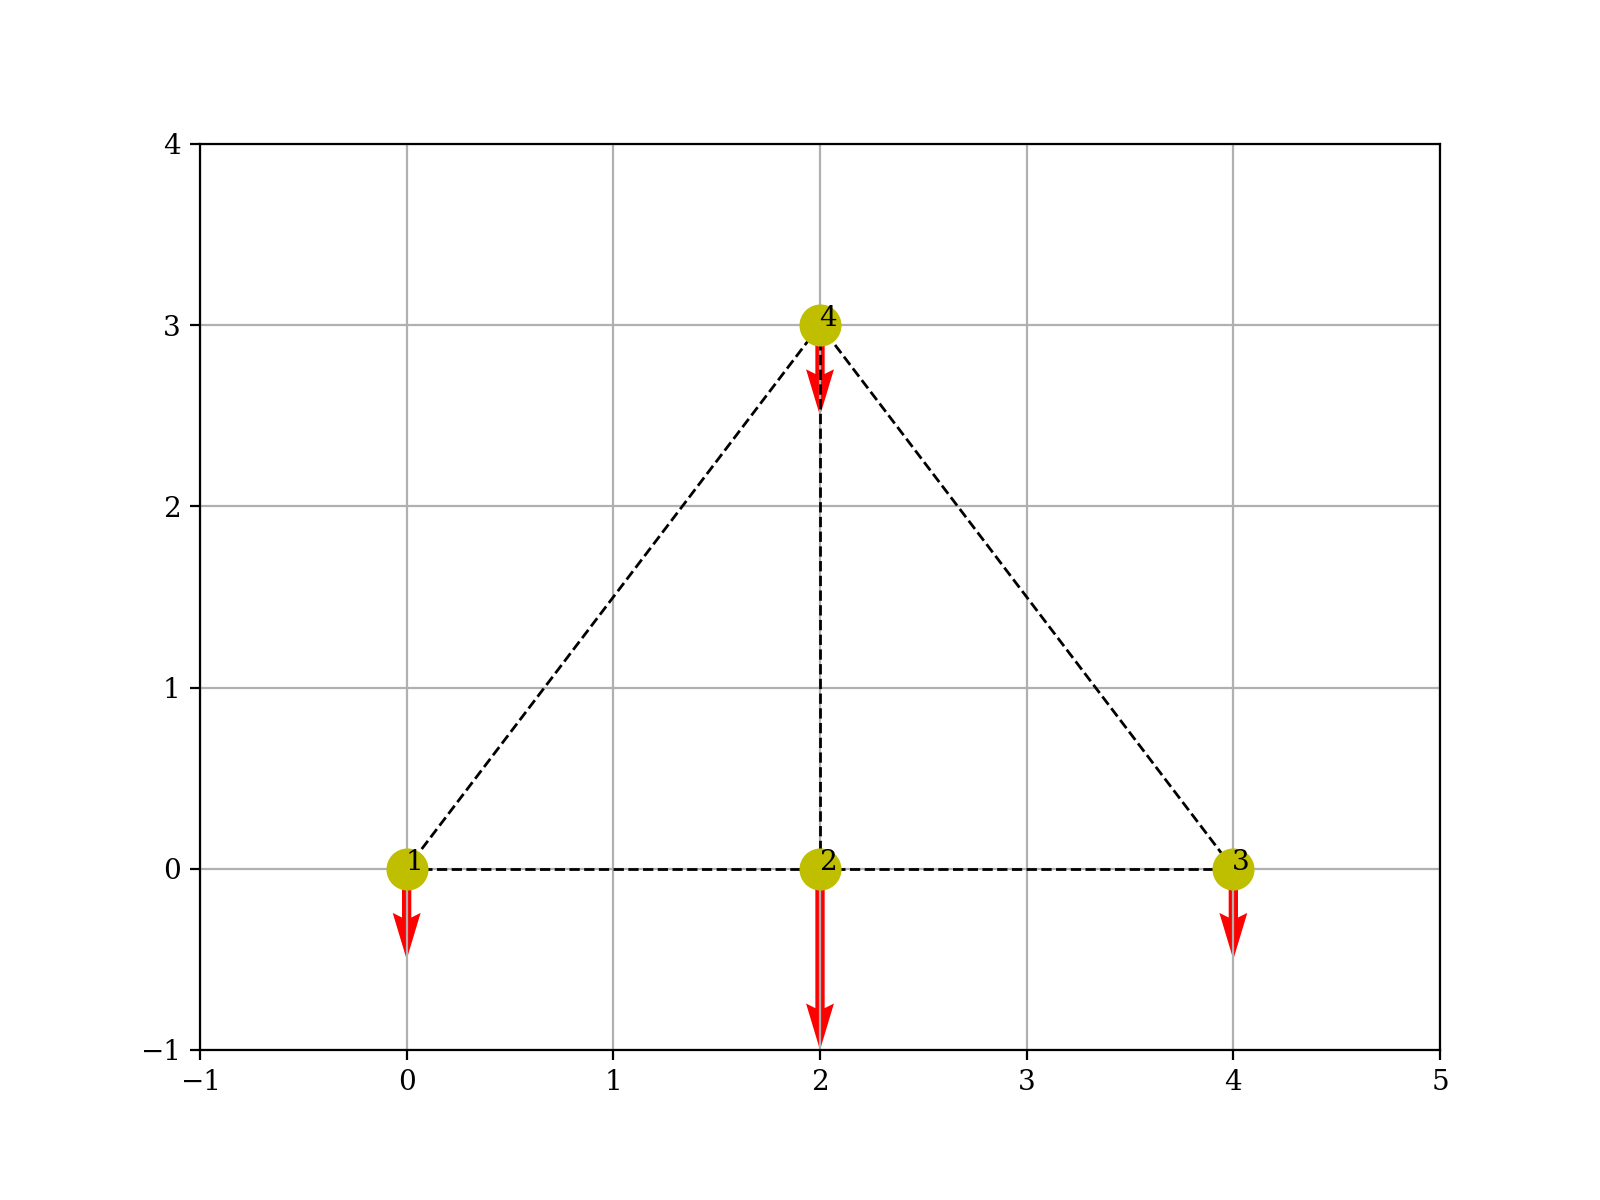
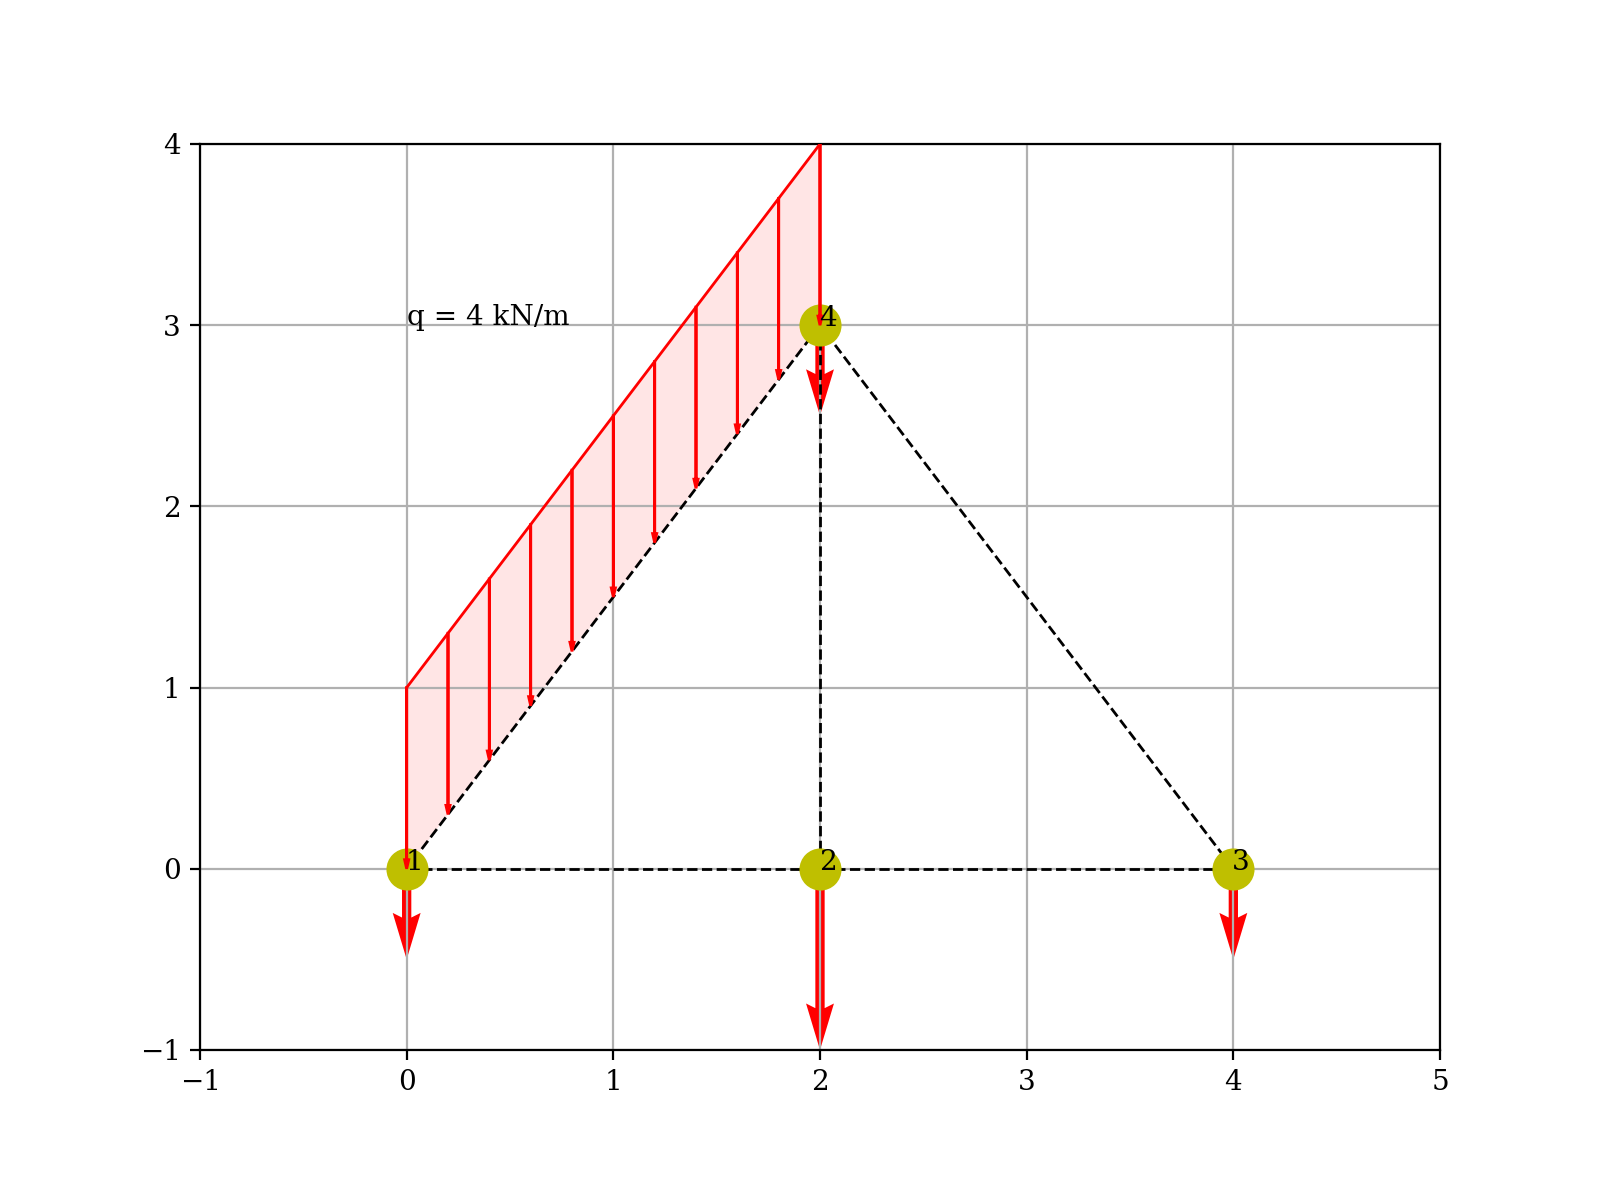
ajout charge 2D et 3D

Changed region(s): [[0.25, 0.1233, 0.5312, 0.7092], [0.25, 0.2467, 0.3438, 0.2775]]

diff --git a/OOP/Code_FEM_v4.py b/OOP/Code_FEM_v4.py
@@ -25,6 +25,22 @@ rcParams["figure.figsize"] = (8,6)
 rcParams['font.family'] = 'serif'
 rcParams['font.size'] = 10
 from mpl_toolkits import mplot3d
+from mpl_toolkits.mplot3d import Axes3D
+from matplotlib.patches import FancyArrowPatch
+from mpl_toolkits.mplot3d import proj3d
+
+class Arrow3D(FancyArrowPatch):
+    def __init__(self, xs, ys, zs, *args, **kwargs):
+        FancyArrowPatch.__init__(self, (0,0), (0,0), *args, **kwargs)
+        self._verts3d = xs, ys, zs
+
+    def draw(self, renderer):
+        xs3d, ys3d, zs3d = self._verts3d
+        xs, ys, zs = proj3d.proj_transform(xs3d, ys3d, zs3d, renderer.M)
+        self.set_positions((xs[0],ys[0]),(xs[1],ys[1]))
+        FancyArrowPatch.draw(self, renderer)
+        
+from matplotlib.patches import Rectangle, Polygon
 #%matplotlib notebook
 from matplotlib.animation import FuncAnimation
 from docxtpl import DocxTemplate, InlineImage
@@ -109,7 +125,7 @@ class Mesh :
                 print(self.element_list)
     
     def del_element(self, element) : 
-        if len(element) != 2 : 
+        if len(element) != self.dim : 
             print("Error : uncorrect element format")
         else :
             found, index = self.check_elem(element)
@@ -144,9 +160,9 @@ class Mesh :
     
     def geom(self, pic = False) : 
         if self.dim == 2 :
-            fig = self.geom2D()
+            fig = self.geom2D(pic)
         else : 
-            fig = self.geom3D()
+            fig = self.geom3D(pic)
         return fig
     
     def geom2D(self, pic = False) : 
@@ -277,28 +293,52 @@ class FEM_Model() :
         print(self.sig)
         
     
-    def K_elem_3d(self,L,E,S,Iy,Iz,G,J) :
-        Ktc = E*S/L
-        KT = G*J/L
-        Kf1 =  12*E*Iy/(L**3)
-        Kf2 =  12*E*Iz/(L**3)
-        Kf3 = 1
-        Kf4 = 1
-        K_elem = np.array([[Ktc, 0, 0, 0, 0, 0, -Ktc, 0, 0, 0, 0, 0],
-                            [0, Kf1 , 0, 0, Kf2, 0, 0],
-                            [0, 0, 0, 0, 0, 0, 0, 0, 0, 0, 0, 0],
-                            [0, 0, 0, 0, 0, 0, 0, 0, 0, 0, 0, 0],
-                            [0, 0, 0, 0, 0, 0, 0, 0, 0, 0, 0, 0],
-                            [0, 0, 0, 0, 0, 0, 0, 0, 0, 0, 0, 0],
-                            [-Ktc, 0, 0 , S, 0, 0],
-                            [0, 0, 0, 0, 0, 0, 0, 0, 0, 0, 0, 0],
-                            [0, 0, 0, 0, 0, 0, 0, 0, 0, 0, 0, 0],
-                            [0, 0, 0, 0, 0, 0, 0, 0, 0, 0, 0, 0],
-                            [0, 0, 0, 0, 0, 0, 0, 0, 0, 0, 0, 0],
-                            [0, 0, 0, 0, 0, 0, 0, 0, 0, 0, 0, 0]])
+    def K_elem_3d(self, L : float , E : float , S : float , Iy : float , Iz : float , G : float , J : float , ay : float = 0, az : float = 0) -> np.array :
+        """ Calcul de la matrice de raideur avec prise en compte de l'énergie cisaillement avec les termes ay et az.
+    
+        :param L: longueur de l'element
+        :type L: float
+        :param E: Module d'Young
+        :type E: float
+        :param S: Section
+        :type S: float
+        :param Iy: Inertie
+        :type Iy: float
+        :param Iz: Inertie
+        :type Iz: float
+        :param G: Module de coulomb
+        :type G: float
+        :param J: Module de torsion
+        :type J: float
+        :param ay:
+        :type ay:
+        :param az:
+        :type az:
+        :return: matrice de raideur en 3D
+        :rtype: np.array
+        """
+        Ktc = E * S / L
+        KT = G * J / L
+        Kf1 = 12 * E * Iz / (L ** 3 * (1 + az))
+        Kf2 = 12 * E * Iy / (L ** 3 * (1 + ay))
+        Kf3 = -6 * E * Iy / (L ** 2 * (1 + ay))
+        Kf4 = 6 * E * Iz / (L ** 2 * (1 + az))
+        Kf5 = (4 + ay) * E * Iy / (L * (1 + ay))
+        Kf6 = (4 + az) * E * Iz / (L * (1 + az))
+        K_elem = np.array([[Ktc, 0, 0, 0, 0, 0, -Ktc, 0, 0, 0, 0, 0], #1
+                           [0, Kf1, 0, 0, 0, Kf4, 0, -Kf1, 0, 0, 0, Kf4],
+                           [0, 0, Kf2, 0, Kf3, 0, 0, 0, 0, 0, 0, 0],
+                           [0, 0, 0, KT, 0, 0, 0, 0, 0, 0, 0, 0],
+                           [0, 0, 0, 0, Kf5, 0, 0, 0, 0, 0, 0, 0],
+                           [0, 0, 0, 0, 0, Kf6, 0, 0, 0, 0, 0, 0],
+                           [-Ktc, 0, 0, 0, 0, 0, Ktc, 0, 0, 0, 0, 0, 0], #7
+                           [0, 0, 0, 0, 0, 0, 0, Kf1, 0, 0, 0, 0],
+                           [0, 0, 0, 0, 0, 0, 0, 0, Kf2, 0, 0, 0],
+                           [0, 0, 0, 0, 0, 0, 0, 0, 0, KT, 0, 0],
+                           [0, 0, 0, 0, 0, 0, 0, 0, 0, 0, Kf5, 0],
+                           [0, Kf4, 0, 0, 0, 0, 0, 0, 0, 0, 0, Kf6]])
         return K_elem
         
-    
     def changement_base(self,P,M) : 
         return P.dot(M).dot(np.transpose(P))
 
@@ -408,6 +448,76 @@ class FEM_Model() :
             self.res['elem'].append({'elem' : i + 1 , 'node i' : self.mesh.element_list[i][0] , 'node j' : self.mesh.element_list[i][1]})
         return self.U, self.React, self.res
     
+    
+    def charge_2D(self, pt1, pt2, q):
+        x1, x2 = pt1[0], pt2[0]
+        y1, y2 = pt1[1], pt2[1]
+        dx, dy = x2 - x1, y2 - y1
+        L = np.sqrt(dx ** 2 + dy ** 2)
+        a = np.arctan(dy / dx)
+        x = np.linspace(pt1[0], pt2[0], 11)
+        y = np.linspace(pt1[1], pt2[1], 11)
+    
+        ax = plt.subplot(111)
+        for i in range(0, 11):
+            plt.arrow(x[i],  # x1
+                     y[i] + 1,  # y1
+                     0,  # x2 - x1
+                     -1,  # y2 - y1
+                     color='r',
+                     lw=1,
+                     length_includes_head=True,
+                     head_width=0.02,
+                     head_length=0.05,
+                     zorder = 6)
+        plt.plot([pt1[0], pt2[0]], [pt1[1] + 1, pt2[1] + 1], lw=1, color='r', zorder = 6)
+        ax.text(x1 , y1 + dy,
+                "q = " + str(q) + " kN/m",
+                size=10, zorder=2, color="k")
+        x = [pt1[0], pt2[0], pt2[0], pt1[0], pt1[0]]
+        y = [pt1[1], pt2[1], pt2[1]+1, pt1[1]+1, pt1[1]]
+    
+        ax.add_patch(Polygon(xy=list(zip(x, y)), fill=True, color='red', alpha=0.1, lw=0))
+        return
+    
+    def charge_3D(self, pt1, pt2, q):
+        x1, x2 = pt1[0], pt2[0]
+        y1, y2 = pt1[1], pt2[1]
+        z1, z2 = pt1[2], pt2[2]
+        dx, dy, dz = x2 - x1, y2 - y1, z2 - z1
+        L = np.sqrt(dx ** 2 + dy ** 2 + dz ** 2)
+        #a = np.arctan(dy / dx)
+        nb_pt = 5
+        amplitude = 1
+        x = np.linspace(x1, x2, nb_pt)
+        y = np.linspace(y1, y2, nb_pt)
+        z = np.linspace(z1, z2, nb_pt)
+    
+        fig = plt.figure(figsize=(8,6))
+        ax = fig.add_subplot(111, projection='3d')
+    
+        for i in range(0, nb_pt):
+            a = Arrow3D([x[i], x[i]], 
+                        [y[i], y[i]], 
+                        [z[i] + amplitude , z[i]], 
+                        mutation_scale=10, 
+                        lw=2, arrowstyle="-|>", color="r")
+            ax.add_artist(a)
+        line, = ax.plot([x1, x2 ], [y1, y2], [z1 + amplitude, z2 + amplitude], color='r', lw=1, linestyle='--')
+        line.set_label('undeformed')
+        ax.text(x1 + dx/2, y1 + dy/2, z1 + dz/2,
+                "q = " + str(q) + " kN/m",
+                size=20, zorder=2, color="k")
+        max_range = np.array([x.max()-x.min(), y.max()-y.min(), z.max()-z.min()]).max() / 2.0 + amplitude
+        mid_x = (x.max()+x.min()) * 0.5
+        mid_y = (y.max()+y.min()) * 0.5
+        mid_z = (z.max()+z.min()) * 0.5
+        ax.set_xlim(mid_x - max_range, mid_x + max_range)
+        ax.set_ylim(mid_y - max_range, mid_y + max_range)
+        ax.set_zlim(mid_z - max_range, mid_z + max_range)
+        plt.show()
+        return
+    
     def plot_forces(self, pic = False) :
         plt.figure()
         F = self.load
@@ -418,6 +528,7 @@ class FEM_Model() :
         size = 200
         offset = size/40000.
         plt.scatter(x, y, c='y', s=size, zorder=5)
+        self.charge_2D([0,0],[2,3],4)
         for i, location in enumerate(zip(x,y)):
             plt.annotate(i+1, (location[0]-offset, location[1]-offset), zorder=10)
         for i in range(len(self.mesh.element_list)) :
@@ -539,11 +650,20 @@ class FEM_Model() :
         if self.mesh.dim == 2 :
             tab.field_names = ["Node","Ux", "Uy", "Phi"]
             for i in range(len(self.mesh.node_list)) : 
-                tab.add_row([int(i+1), self.U[i][0], self.U[i+1][0], self.U[i+2][0]])
-        else : 
+                tab.add_row([int(i+1),
+                             np.format_float_scientific(self.U[i][0], precision = 2, exp_digits=2),
+                            np.format_float_scientific(self.U[i+1][0], precision = 2, exp_digits=2),
+                            np.format_float_scientific(self.U[i+2][0], precision = 2, exp_digits=2)])
+        else :
             tab.field_names = ["Node","Ux", "Uy", "Uz", "Phix", "Phiy", "Phiz"]
             for i in range(len(self.mesh.node_list)) : 
-                tab.add_row([int(i+1), self.U[i][0], self.U[i+1][0], self.U[i+2][0], self.U[i+3][0], self.U[i+4][0], self.U[i+5][0]])
+                tab.add_row([int(i+1), 
+                             np.format_float_scientific(self.U[i][0], precision = 2, exp_digits=2),
+                            np.format_float_scientific(self.U[i+1][0], precision = 2, exp_digits=2),
+                            np.format_float_scientific(self.U[i+2][0], precision = 2, exp_digits=2), 
+                             np.format_float_scientific(self.U[i+3][0], precision = 2, exp_digits=2),
+                            np.format_float_scientific(self.U[i+4][0], precision = 2, exp_digits=2),
+                            np.format_float_scientific(self.U[i+5][0], precision = 2, exp_digits=2)])
         print(tab)
         
     def R_table(self):
@@ -598,6 +718,8 @@ def test_3d() :
     print(m1)
     m1.geom()
     m1.node_table()
+    f = FEM_Model(m1)
+    f.charge_3D([0,0,0],[1,1,1],5)
     return
 
 def test_2d() : 
@@ -656,8 +778,12 @@ def test_cantilever() :
 if __name__ == "__main__" :
     test_2d()
     
-"""
+'''
 TODO : 
-    [] arrondi en notation scientifique en python
-    []
-"""
+    [x] arrondi en notation scientifique en python
+    [x] visuel charge répartie
+    [] bien gérer la génération d'une charge répartie et d'une charge ponctuelle
+    [] sortie format json ou dictionnaire ?
+    [] nettoyage du code 
+    [] ajouter des docstrings
+'''
